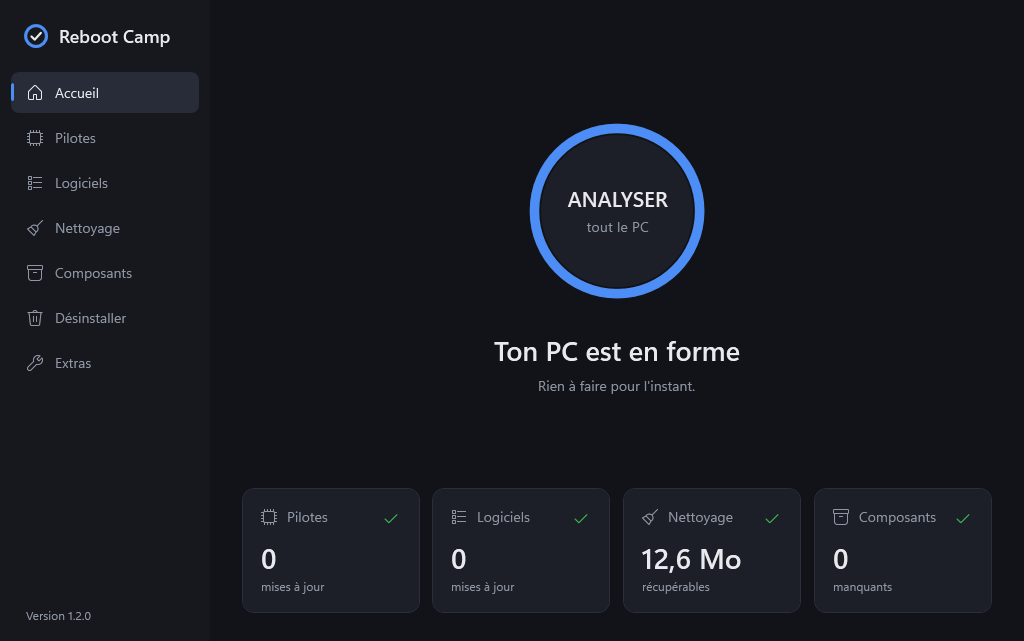
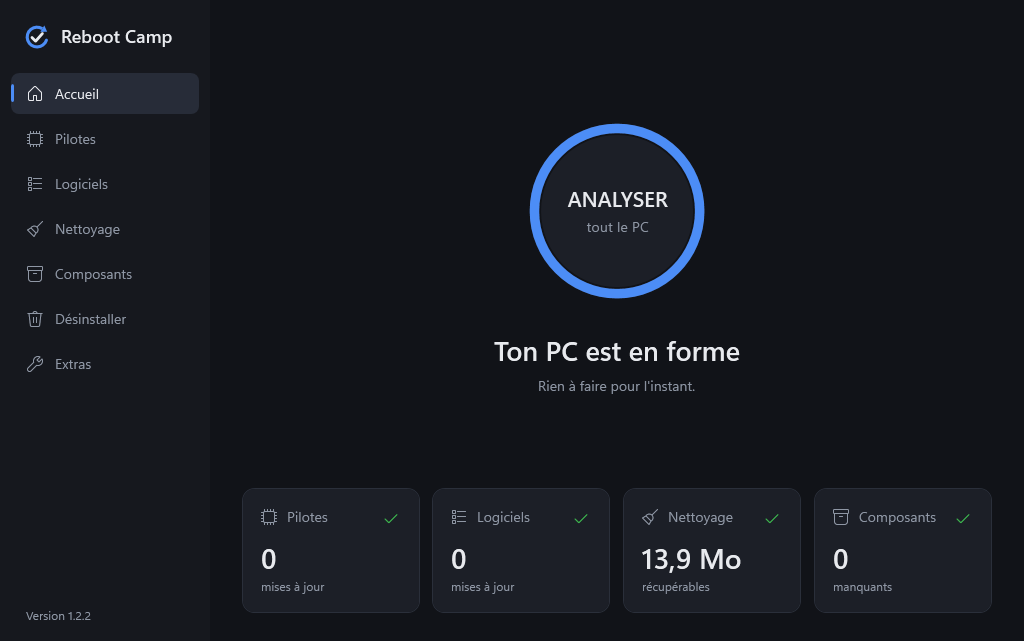
Nouvelle icone : fleche de redemarrage et coche, en neuf tailles (16 a 256 px)
- Assets/app.ico : fichier du programme, barre des taches et barre de titre
- MainWindow.xaml : meme dessin en vecteurs dans la barre laterale
- docs/icone.png et docs/capture.png : README

diff --git a/RebootCamp/MainWindow.xaml b/RebootCamp/MainWindow.xaml
@@ -52,13 +52,24 @@
         <!-- Barre latérale -->
         <Border Grid.Column="0" Background="{StaticResource SidebarBackgroundBrush}">
             <DockPanel>
-                <!-- Logo (le même anneau que l'icône du programme, dessiné ici pour rester net à toutes les tailles) + nom -->
+                <!-- Logo : le même dessin que l'icône du programme (flèche de redémarrage + coche), tracé ici en
+                     vecteurs pour rester net à toutes les tailles. Les coordonnées sont celles d'une grille de 256. -->
                 <StackPanel DockPanel.Dock="Top" Orientation="Horizontal" Margin="24,24,20,20">
-                    <Grid Width="24" Height="24" VerticalAlignment="Center">
-                        <Ellipse Stroke="{StaticResource AccentBrush}" StrokeThickness="3.2" />
-                        <Path Data="M 7.4,12.4 L 10.6,15.6 L 16.8,8.8" Stroke="{StaticResource TextBrush}" StrokeThickness="2.2"
-                              StrokeStartLineCap="Round" StrokeEndLineCap="Round" StrokeLineJoin="Round" />
-                    </Grid>
+                    <Viewbox Width="26" Height="26" VerticalAlignment="Center">
+                        <Canvas Width="184" Height="184">
+                            <Canvas.RenderTransform>
+                                <TranslateTransform X="-36" Y="-36" />
+                            </Canvas.RenderTransform>
+                            <!-- Anneau ouvert en haut à droite -->
+                            <Path Data="M 194.57,149.63 A 70,70 0 1 1 165.09,68.64" Stroke="{StaticResource AccentBrush}"
+                                  StrokeThickness="22" StrokeStartLineCap="Round" />
+                            <!-- Pointe de la flèche, dans le prolongement de l'anneau -->
+                            <Path Data="M 199.01,89.84 L 179.40,45.74 L 150.78,91.54 Z" Fill="{StaticResource AccentBrush}" />
+                            <!-- Coche -->
+                            <Path Data="M 92,131 L 118,157 L 166,103" Stroke="{StaticResource TextBrush}" StrokeThickness="20"
+                                  StrokeStartLineCap="Round" StrokeEndLineCap="Round" StrokeLineJoin="Round" />
+                        </Canvas>
+                    </Viewbox>
                     <TextBlock Text="Reboot Camp" FontSize="18" FontWeight="SemiBold" Margin="11,0,0,1"
                                VerticalAlignment="Center" />
                 </StackPanel>

diff --git a/CLAUDE.md b/CLAUDE.md
@@ -32,7 +32,7 @@ Utilisateur : Tom, BTS SIO, PC portable Asus (Windows, GPU NVIDIA). Toutes les r
 
 ## Mise à jour de l'appli
 - Via les Releases du dépôt GitHub **public** `TomRolling/Reboot-Camp` (`UpdateService.Repository`) : étiquette `vX.Y.Z` + `RebootCamp.exe` en pièce jointe.
-- **Publication automatique** (depuis le 22/11/2026, sur le modèle de Clean Slate) : chaque `git push` sur `main` lance `.github/workflows/publication.yml` → tests, `.exe` autonome, Release. Le numéro est `VERSION_DE_BASE.N` (N = numéro de l'exécution), base actuelle **1.2**. Ne jamais baisser la base : un numéro plus petit que la dernière Release ne serait jamais proposé aux applis installées. Un push qui ne touche que des `.md`, `docs/`, `LICENSE` ou `.gitignore` ne publie rien.
+- **Publication automatique** (depuis le 22/11/2026) : chaque `git push` sur `main` lance `.github/workflows/publication.yml` → tests, `.exe` autonome, Release. Le numéro est `VERSION_DE_BASE.N` (N = numéro de l'exécution), base actuelle **1.2**. Ne jamais baisser la base : un numéro plus petit que la dernière Release ne serait jamais proposé aux applis installées. Un push qui ne touche que des `.md`, `docs/`, `LICENSE` ou `.gitignore` ne publie rien.
 - Conséquence : **tout push de code publie une version**. Ne pousser que du code qui compile et dont les tests passent ; le `<Version>` du `.csproj` ne sert plus qu'aux fabrications locales.
 - `publier.ps1` ne fait que fabriquer le `.exe` en local (dossier `sortie/`), pour l'essayer.
 - L'exe n'est pas signé : SmartScreen avertit au premier lancement d'un fichier téléchargé par un navigateur. Seule une signature de code le supprime vraiment.
@@ -52,6 +52,7 @@ Utilisateur : Tom, BTS SIO, PC portable Asus (Windows, GPU NVIDIA). Toutes les r
 - Style **épuré et minimaliste**, facile à lire : peu de texte, gros chiffres, une action principale évidente par écran. Quelqu'un qui n'y connaît rien doit comprendre.
 - **Animations** pendant les analyses et mises à jour (anneau qui tourne, barres de progression fluides, transitions entre onglets), dans l'esprit de Driver Booster. Aucune animation au repos (0 % CPU).
 - Accueil : résumé (nb de pilotes à mettre à jour, espace récupérable, composants manquants) rempli seulement après un bouton « Analyser tout ».
+- **Icône de l'appli** (choisie par Tom le 22/11/2026) : flèche de redémarrage bleue + coche blanche sur fond sombre. `Assets/app.ico` contient neuf tailles (16 à 256 px) ; le même dessin est tracé en vecteurs dans la barre latérale (`MainWindow.xaml`) et sert d'image au README (`docs/icone.png`). Les trois doivent rester identiques.
 - Gros bouton d'action par onglet, listes claires avec icônes d'état (OK / à mettre à jour / erreur).
 - **Icônes des programmes** dans les listes où il y en a une vraie (demande de Tom du 22/11/2026) : Logiciels, Désinstaller, Extras > Démarrage. `IconService` les lit sur le PC (fichier `.exe`/`.ico` du programme, logo du paquet pour une application Windows) ; rien n'est téléchargé. Style `AppIcon`, avec une icône neutre quand rien n'est trouvé.
 - **La fin d'une action doit se voir** (demande de Tom du 22/11/2026) : le bouton rond passe au vert avec une coche et « TERMINÉ » (orange si une partie a échoué), le titre commence par « Terminé : » ou « Nettoyage terminé : », et le bouton de l'appli clignote dans la barre des tâches si la fenêtre n'est pas au premier plan. Dans le code : `MarkDone()` avant `EndOperation()`.
